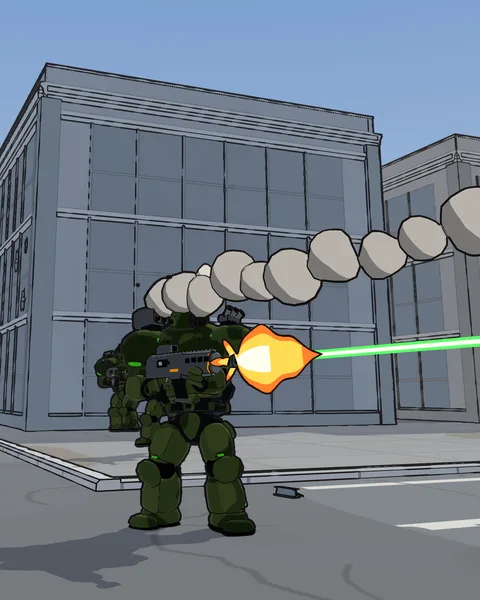
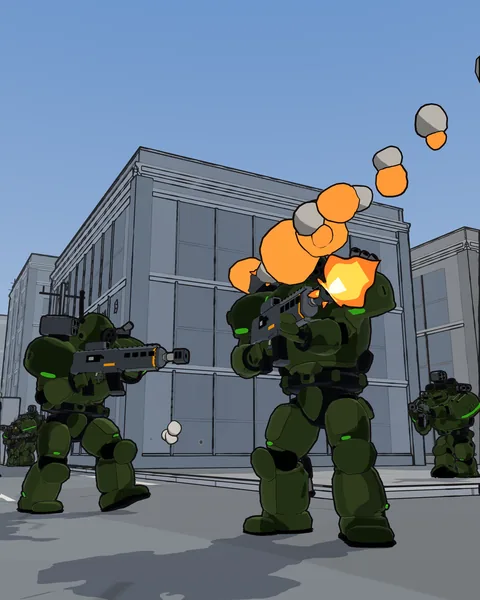
Tin Coffins: the pictures re-taken on the cartouche HUD
Re-derived per ASSETS.md from nvoorhies/robot-fps#632. The Steam screenshots now
have the framed HUD plates, and the opening force is staged at today's density.
The Steam set is seven stills now, without the old salvo and smoke shots, so
those two slots take the exchange (in Squads) and the wreck (in The war), with
new alt text and captions. The page hero is the portrait key-art frame the Steam
tall capsules are cut from. The wordmark and the social preview move to the
Michroma logotype Steam has used since 10-09.

diff --git a/tin-coffins/index.html b/tin-coffins/index.html
@@ -64,7 +64,7 @@
       <div>
         <p class="eyebrow">A mech roguelite shooter</p>
         <h1 id="title" class="wordmark">
-          <img src="/assets/img/tc-wordmark.webp" width="1240" height="271" alt="">
+          <img src="/assets/img/tc-wordmark.webp" width="1240" height="175" alt="">
           <span class="sr">Tin Coffins</span>
         </h1>
         <p class="lede">You are Talon-22, a combat clone printed this shift. Twenty-one of you didn’t come home.</p>
@@ -83,7 +83,7 @@
         <img src="/assets/img/tc-hero.webp" width="880" height="1100"
              srcset="/assets/img/tc-hero-480.webp 480w, /assets/img/tc-hero.webp 880w"
              sizes="(max-width: 900px) 420px, 40vw"
-             alt="In-game: a green mech stands in a city street firing its autocannon in a burst of orange flame and a green tracer, while a rocket from its shoulder pod arcs away over the grey office blocks behind it on a trail of cartoon smoke.">
+             alt="In-game, from low in the street: a green mech fires its autocannon in a burst of orange flame as a rocket salvo leaves its shoulder pod in a trail of orange and grey smoke, a squadmate beside it levelling its rifle and more of the squad behind, in front of a grey office block.">
         <figcaption>Captured from the game: autocannon and rocket pod.</figcaption>
       </figure>
     </div>
@@ -118,7 +118,7 @@
       <div class="shots">
         <figure class="shot wide">
           <img src="/assets/img/tc-firefight.webp" width="1400" height="788" loading="lazy"
-               alt="In-game, over the pilot’s shoulder with the full HUD: the squad spread across a wide street between grey office blocks, wingmates firing down the road at two red enemy mechs, green tracers crossing the street, a radio subtitle reading “Kestrel-14 — enemy spotted, south-west!”">
+               alt="In-game, over the pilot’s shoulder with the full HUD: the squad close together in a wide street between grey office blocks, firing on four red enemy mechs across the road, sparks on the enemy and a rocket’s smoke trail crossing the street, a radio subtitle reading “Kestrel-14 — enemy spotted, north-west!”">
           <figcaption>First contact. Radar, ammunition and the radio along the bottom; the squad’s callsigns over their heads.</figcaption>
         </figure>
         <figure class="shot">
@@ -127,9 +127,9 @@
           <figcaption>Every sortie starts with a drop.</figcaption>
         </figure>
         <figure class="shot">
-          <img src="/assets/img/tc-smoke.webp" width="1400" height="788" loading="lazy"
-               alt="In-game: a smoke cloud has burst across the street where an enemy mech stood; the pilot’s rocket hits the other enemy in a shower of sparks while the squad fires on either side.">
-          <figcaption>They pop smoke. You lose them.</figcaption>
+          <img src="/assets/img/tc-wreck.webp" width="1400" height="788" loading="lazy"
+               alt="In-game, from beside the target: a red enemy mech twists and staggers in a street under autocannon fire, its armour breaking away in a spray of sparks.">
+          <figcaption>Twenty metres, and the frame comes apart.</figcaption>
         </figure>
       </div>
       <p class="wip"><b>Work in progress</b>The pictures on this page are captured from the current build. The mechs, the city and the sound are getting their final pass, and the pictures will be re-taken when they do.</p>
@@ -169,9 +169,9 @@
           <figcaption>Flank right, over the comms radial.</figcaption>
         </figure>
         <figure class="shot">
-          <img src="/assets/img/tc-salvo.webp" width="1400" height="788" loading="lazy"
-               alt="In-game: a mech faces the camera in a city street, a wingmate at its shoulder, a rocket arcing up and away from its shoulder pod on a smoke trail.">
-          <figcaption>One primary, and one to three shoulder hardpoints by frame.</figcaption>
+          <img src="/assets/img/tc-exchange.webp" width="1400" height="788" loading="lazy"
+               alt="In-game, over the pilot’s shoulder: the squad pushes up the street firing, autocannon muzzle flashes in the foreground, red enemy mechs taking hits across the road, two wingmates’ callouts stacked in the radio feed.">
+          <figcaption>The squad pushes in and calls it over the radio.</figcaption>
         </figure>
       </div>
     </div>

diff --git a/ASSETS.md b/ASSETS.md
@@ -48,17 +48,17 @@ Images and videos in posts live with each post's Markdown in
 
 ## Tin Coffins page
 
-Everything here is captured from the game by its own harness — [nvoorhies/robot-fps](https://github.com/nvoorhies/robot-fps) `tools/promo/capture.sh` (see that repo's `tools/promo/README.md`) — so a graphics update is a re-capture, not a redraw. The game's art is still in progress, and the page says so; re-derive every file below when that repo re-captures. Last re-captured 2026-10-08 from robot-fps `ae27f54` (nvoorhies/robot-fps#550, on master `3f494da`): the city with its hero landmarks, and the arrival shot back at street level.
+Everything here is captured from the game by its own harness — [nvoorhies/robot-fps](https://github.com/nvoorhies/robot-fps) `tools/promo/capture.sh` (see that repo's `tools/promo/README.md`) — so a graphics update is a re-capture, not a redraw. The game's art is still in progress, and the page says so; re-derive every file below when that repo re-captures. Last re-captured 2026-10-12 from robot-fps `2261787` (nvoorhies/robot-fps#632, on master `2de1f5b`): the cartouche HUD, the opening force at today's density. The Steam set is seven stills now, so the page's old `salvo` and `smoke` slots took `05-exchange` and `07-wreck`.
 
 | file | source | notes |
 | --- | --- | --- |
-| `tc-firefight.webp`, `tc-dropship.webp`, `tc-orders.webp`, `tc-salvo.webp`, `tc-smoke.webp`, `tc-arrival.webp` | robot-fps `store/screenshots/desktop/0N-*.png` (the Steam screenshots) | 1400×788, WebP quality 82 |
-| `tc-hero.webp`, `tc-hero-480.webp` | robot-fps `capture.sh art` frame `04-salvo.png` (3840×2160, HUD hidden) | 4:5 crop around the mech, x 1400–2720, y 480–2130, so the muzzle flash and the rocket's trail are in frame. 880×1100 and 480×600, WebP quality 82 |
+| `tc-firefight.webp`, `tc-dropship.webp`, `tc-orders.webp`, `tc-exchange.webp`, `tc-arrival.webp`, `tc-wreck.webp` | robot-fps `store/screenshots/desktop/` `01-firefight`, `02-dropship`, `03-orders`, `05-exchange`, `06-arrival`, `07-wreck` (the Steam screenshots) | 1400×788, WebP quality 82. `04-hero` is the page's hero below, so it isn't used twice |
+| `tc-hero.webp`, `tc-hero-480.webp` | robot-fps `capture.sh art` frame `04-hero-tall.png` (2160×2880, HUD hidden): the key-art frame the Steam tall capsules are cut from | 4:5 at full width, y 100–2800 (less sky). 880×1100 and 480×600, WebP quality 82 |
 | `tc-card.webp` | `capture.sh art` frame `06-arrival.png` | 16:10 at full height, centred; 960×600, for the home page card |
-| `tc-og.jpg` | `capture.sh art` frame `02-dropship.png` with the wordmark, as `tools/promo/steam_art.py` lays it on the capsules | 1200×630 social preview: cut and graded like the header capsule (`_cover` focus 0.5, 0.42, then `_grade`), the wordmark along the bottom at 66% of the width |
-| `tc-wordmark.webp` | robot-fps `store/steam/library_logo.png` (drawn by `tools/promo/brand.py`) | Cropped to the ink, 1240 wide, with alpha |
+| `tc-og.jpg` | `capture.sh art` frame `02-dropship.png` with the wordmark, as `tools/promo/steam_art.py` lays it on the capsules | 1200×630 social preview: cut and graded like the header capsule (`_cover` focus 0.5, 0.42, then `_grade`), the wordmark along the bottom at 66% of the width on the header's ink band (`_with_logo`, band 0.42), JPEG quality 88 |
+| `tc-wordmark.webp` | robot-fps `store/steam/library_logo.png` (drawn by `tools/promo/brand.py`: Michroma since 2026-10-09) | Cropped to the ink, 1240 wide (1240×175), with alpha, WebP quality 90 |
 | `tc-combat-effective.webp` and five more citation badges | robot-fps `store/steam/achievements/large/` (`tools/promo/achievement_icons.py`) | 176×176. The hidden achievement and the act finales are left off — they name the story |
-| `fonts/roboto-condensed-bold.woff2` | Roboto Condensed Bold, the logotype's face (robot-fps `store/fonts/`) | Latin subset, converted with fontTools. Apache 2.0 (`LICENSE-roboto-condensed.txt`) |
+| `fonts/roboto-condensed-bold.woff2` | Roboto Condensed Bold, the page's heading face (robot-fps `store/fonts/`, where it sets the icons' stencil and the trailer's cards) | Latin subset, converted with fontTools. Apache 2.0 (`LICENSE-roboto-condensed.txt`) |
 
 ## Goblin Hunt page
 
